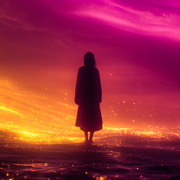
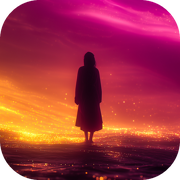
Update website content and assets

diff --git a/src/_data/home.js b/src/_data/home.js
@@ -1,24 +1,24 @@
 export default {
   features: [
     {
-      title: "Say what’s real",
-      copy: "A text you want to send. A person you cannot read. A decision that keeps looping. A low mood, a strange dream, or a question about where your life is heading.",
+      title: "Ask About Life",
+      copy: "Love, work, timing, and what's next.",
       image: "https://website.staia.io/1a.webp"
     },
     {
-      title: "Read the pattern",
-      copy: "Staia looks at your placements, timing, compatibility, and current energy to give you guidance that feels personal instead of generic.",
+      title: "Make Your Move",
+      copy: "Choose the right moment with confidence.",
       image: "https://website.staia.io/2a.webp",
       reverse: true
     },
     {
-      title: "Go deeper",
-      copy: "Ask follow-ups, check another angle, or stay with the same question until the answer starts to land.",
+      title: "Understand Your Chart",
+      copy: "Personal astrology from your exact birth data.",
       image: "https://website.staia.io/3a.webp"
     },
     {
-      title: "Move with trust",
-      copy: "Leave with clearer words, better timing, stronger boundaries, or an intention that helps you meet the moment instead of spiraling around it.",
+      title: "For Every Day",
+      copy: "Here for the highs, lows, and in-betweens.",
       image: "https://website.staia.io/4a.webp",
       reverse: true
     }
@@ -27,25 +27,25 @@ export default {
     {
       reviews: [
         {
-          initials: "MR",
-          name: "Maya R.",
-          handle: "@mayarosen",
-          title: "Finally had words for it.",
-          copy: "It gave me a way to name what I was feeling before I had the words."
+          initials: "H",
+          name: "Haleymeshale",
+          handle: "Haleymeshale",
+          title: "LOVE IT",
+          copy: "Best thing I did this year was download this app. I've never felt so seen. It's like talking to a friend who just gets your soul so deeply."
         },
         {
-          initials: "JS",
-          name: "Jordan S.",
-          handle: "@jord.s",
-          title: "Specific enough to use.",
-          copy: "The prompts are clear enough that I actually know what to do next."
+          initials: "P",
+          name: "Patron7370",
+          handle: "Patron7370",
+          title: "Amazing",
+          copy: "You need to get this app and after this nothing else."
         },
         {
-          initials: "AL",
-          name: "Ari L.",
-          handle: "@ariluna",
-          title: "My pre-conversation ritual.",
-          copy: "I use it before big conversations. It helps me slow down."
+          initials: "P",
+          name: "PreetamAIPro",
+          handle: "PreetamAIPro",
+          title: "It is serious",
+          copy: "I never thought AI and astrology can reveal so many things which even the celebrity astrologers have failed so far."
         }
       ]
     },
@@ -53,50 +53,50 @@ export default {
       reverse: true,
       reviews: [
         {
-          initials: "SK",
-          name: "Sam K.",
-          handle: "@sam.asking",
-          title: "Grounded, not generic.",
-          copy: "The astrology feels grounded. It points me back to my own choices."
+          initials: "C",
+          name: "Charu anime \"Queen\"",
+          handle: "Charu anime \"Queen\"",
+          title: "Spiritual bestie vibes",
+          copy: "I love this app so much. It's giving me spiritual bestie vibes. I love it."
         },
         {
-          initials: "LD",
-          name: "Leah D.",
-          handle: "@leahday",
-          title: "Came for the chart.",
-          copy: "I came for the chart. I stayed because the advice is practical."
+          initials: "H",
+          name: "Heather",
+          handle: "Heather",
+          title: "Learn yourself",
+          copy: "Great place to learn yourself, your sign, and relationships. Love it."
         },
         {
-          initials: "PK",
-          name: "Priya K.",
-          handle: "@priyaaaa",
-          title: "One question I can answer.",
-          copy: "It turns a messy day into one question I can actually answer."
+          initials: "R",
+          name: "Reabetswe Nteo",
+          handle: "Reabetswe Nteo",
+          title: "Makes me feel good",
+          copy: "I'm so in love with Staia. It makes me feel good whenever I feel down."
         }
       ]
     },
     {
       reviews: [
         {
-          initials: "EH",
-          name: "Elena H.",
-          handle: "@elenamoon",
-          title: "A pause button.",
-          copy: "Staia has become my pause button when I am spiraling."
+          initials: "T",
+          name: "Tebogo Rapoo",
+          handle: "Tebogo Rapoo",
+          title: "On point",
+          copy: "It's on point. Great app, you won't be disappointed."
         },
         {
-          initials: "RB",
-          name: "Rae B.",
-          handle: "@raeb",
-          title: "Calm, pretty, direct.",
-          copy: "It is calm, pretty, and surprisingly direct when I need it."
+          initials: "R",
+          name: "RATHI SASIKUMAR",
+          handle: "RATHI SASIKUMAR",
+          title: "Understand yourself",
+          copy: "Great application to understand yourself."
         },
         {
-          initials: "JM",
-          name: "June M.",
-          handle: "@junem",
-          title: "More than prediction.",
-          copy: "I like that it does not just predict. It helps me reflect."
+          initials: "C",
+          name: "Cheshta Modi",
+          handle: "Cheshta Modi",
+          title: "Life saver",
+          copy: "The most important thing I ever heard about. I have no words for these. Just try once, you get it."
         }
       ]
     }

diff --git a/src/pages/index.html b/src/pages/index.html
@@ -22,13 +22,13 @@ permalink: index.html
     </div>
     <div class="video-hero__bottom">
       <p class="hero-subtitle">Find answers and manifest your future</p>
-      <div class="hero-rating" aria-label="Rated 4.8 stars, with more than 12 thousand readings a week">
+      <div class="hero-rating" aria-label="Rated 4.8 stars, with more than 3 thousand reviews">
         <span class="hero-rating__stars" aria-hidden="true">★★★★★</span>
         <span>4.8</span>
         <span class="hero-rating__dot" aria-hidden="true"></span>
-        <span>12k+ readings a week</span>
+        <span>3k+ reviews</span>
       </div>
-      <a class="button primary hero-button" href="#get-the-app" aria-label="Get started">
+      <a class="button primary hero-button" href="https://abr.ge/kmrvcpp" aria-label="Get started">
         <span>Get started <svg class="button-icon" viewBox="0 0 256 256" aria-hidden="true"><path d="M181.66 133.66l-80 80a8 8 0 0 1-11.32-11.32L164.69 128 90.34 53.66a8 8 0 0 1 11.32-11.32l80 80a8 8 0 0 1 0 11.32z"/></svg></span>
         <span aria-hidden="true">Get started <svg class="button-icon" viewBox="0 0 256 256" aria-hidden="true"><path d="M181.66 133.66l-80 80a8 8 0 0 1-11.32-11.32L164.69 128 90.34 53.66a8 8 0 0 1 11.32-11.32l80 80a8 8 0 0 1 0 11.32z"/></svg></span>
       </a>

diff --git a/public/styles/responsive.css b/public/styles/responsive.css
@@ -86,6 +86,16 @@
 }
 
 @media (max-width: 900px) {
+  .feature-block,
+  .feature-block--reverse {
+    grid-template-columns: minmax(0, 1fr) minmax(0, 1fr);
+    gap: var(--space-8);
+  }
+
+  .feature-image {
+    width: 100%;
+  }
+
   .download-cta {
     padding: 56px 0;
   }
@@ -191,10 +201,12 @@
   }
 
   .features-inner {
+    width: min(var(--container-wide), calc(100% - var(--page-gutter-mobile)));
     gap: var(--section-stack-gap-mobile);
   }
 
-  .feature-block {
+  .feature-block,
+  .feature-block--reverse {
     grid-template-columns: 1fr;
     gap: var(--space-8);
   }
@@ -319,6 +331,26 @@
 
   .download-cta .download-cta__device {
     width: min(280px, 100%);
+  }
+}
+
+@media (min-width: 641px) and (max-width: 720px) {
+  .feature-block,
+  .feature-block--reverse {
+    grid-template-columns: minmax(0, 1fr) minmax(0, 1fr);
+  }
+
+  .feature-block--reverse .feature-copy {
+    order: 2;
+  }
+
+  .feature-block--reverse .feature-image {
+    order: 1;
+  }
+
+  .feature-copy {
+    justify-items: start;
+    text-align: left;
   }
 }
 

diff --git a/public/styles/home.css b/public/styles/home.css
@@ -113,15 +113,20 @@
 }
 
 .features-inner {
+  width: min(var(--container-wide), calc(100% - var(--page-gutter)));
   display: grid;
   gap: var(--section-stack-gap);
 }
 
 .feature-block {
   display: grid;
-  grid-template-columns: minmax(0, 0.95fr) minmax(260px, 0.8fr);
+  grid-template-columns: minmax(0, 1fr) minmax(520px, 600px);
   align-items: center;
-  gap: var(--layout-gap);
+  gap: clamp(40px, 5vw, 72px);
+}
+
+.feature-block--reverse {
+  grid-template-columns: minmax(520px, 600px) minmax(0, 1fr);
 }
 
 .feature-block--reverse .feature-copy {
@@ -223,15 +228,15 @@
 
 .feature-image {
   justify-self: center;
-  width: 400px;
-  height: 400px;
+  width: min(600px, 100%);
+  aspect-ratio: 1;
   margin: 0;
 }
 
 .feature-image img {
   display: block;
-  width: 400px;
-  height: 400px;
+  width: 100%;
+  height: 100%;
   object-fit: cover;
 }
 

diff --git a/src/_data/jobs.js b/src/_data/jobs.js
@@ -1,19 +1,19 @@
 export default {
   openRoles: [
     {
-      title: "Founding Product Designer",
+      title: "AI UGC Content Creator",
       meta: "Remote · Full-time",
-      subject: "Founding%20Product%20Designer"
+      subject: "AI%20UGC%20Content%20Creator"
     },
     {
-      title: "Founding iOS Engineer",
+      title: "Podcast Video Editor",
       meta: "Remote · Full-time",
-      subject: "Founding%20iOS%20Engineer"
+      subject: "Podcast%20Video%20Editor"
     },
     {
-      title: "Astrology Content Lead",
+      title: "Founding Full Stack Engineer",
       meta: "Remote · Full-time",
-      subject: "Astrology%20Content%20Lead"
+      subject: "Founding%20Full%20Stack%20Engineer"
     }
   ]
 };

diff --git a/src/pages/contact.html b/src/pages/contact.html
@@ -17,8 +17,8 @@ permalink: contact/index.html
           <p class="split-intro__copy">For support, privacy, subscriptions, partnerships, or general questions, email us at <a class="split-intro__link-line" href="mailto:mark@mediakey.io">mark@mediakey.io</a></p>
         </div>
       </div>
-      <div class="media-stat-panel media-stat-panel--image-only" aria-label="Staia contact image">
-        <img class="media-stat-panel__image" src="https://website.staia.io/about-stats.webp" alt="">
+      <div class="media-stat-panel" aria-label="Staia support image">
+        <img class="media-stat-panel__image" src="https://website.staia.io/support.webp" alt="">
       </div>
     </div>
   </section>

diff --git a/src/pages/about.html b/src/pages/about.html
@@ -29,7 +29,7 @@ permalink: about/index.html
         <p class="split-intro__copy">In our culture, everyone is responsible and has full ownership of their work. It's a fast-paced environment with high standards, and we're all passionate about the work we do.</p>
       </div>
       <div class="media-stat-panel media-stat-panel--image-only" aria-label="Staia team image">
-        <img class="media-stat-panel__image" src="https://website.staia.io/about-stats.webp" alt="">
+        <img class="media-stat-panel__image" src="https://website.staia.io/aboutus.webp" alt="">
       </div>
     </div>
   </section>

diff --git a/public/styles/components.css b/public/styles/components.css
@@ -214,12 +214,24 @@
   background: var(--cream-section);
 }
 
+.media-stat-panel--image-only {
+  display: block;
+  min-height: 0;
+}
+
 .media-stat-panel__image {
   position: absolute;
   inset: 0;
   width: 100%;
   height: 100%;
   object-fit: cover;
+}
+
+.media-stat-panel--image-only .media-stat-panel__image {
+  position: static;
+  width: 100%;
+  height: auto;
+  object-fit: contain;
 }
 
 .media-stat-panel__grid {
